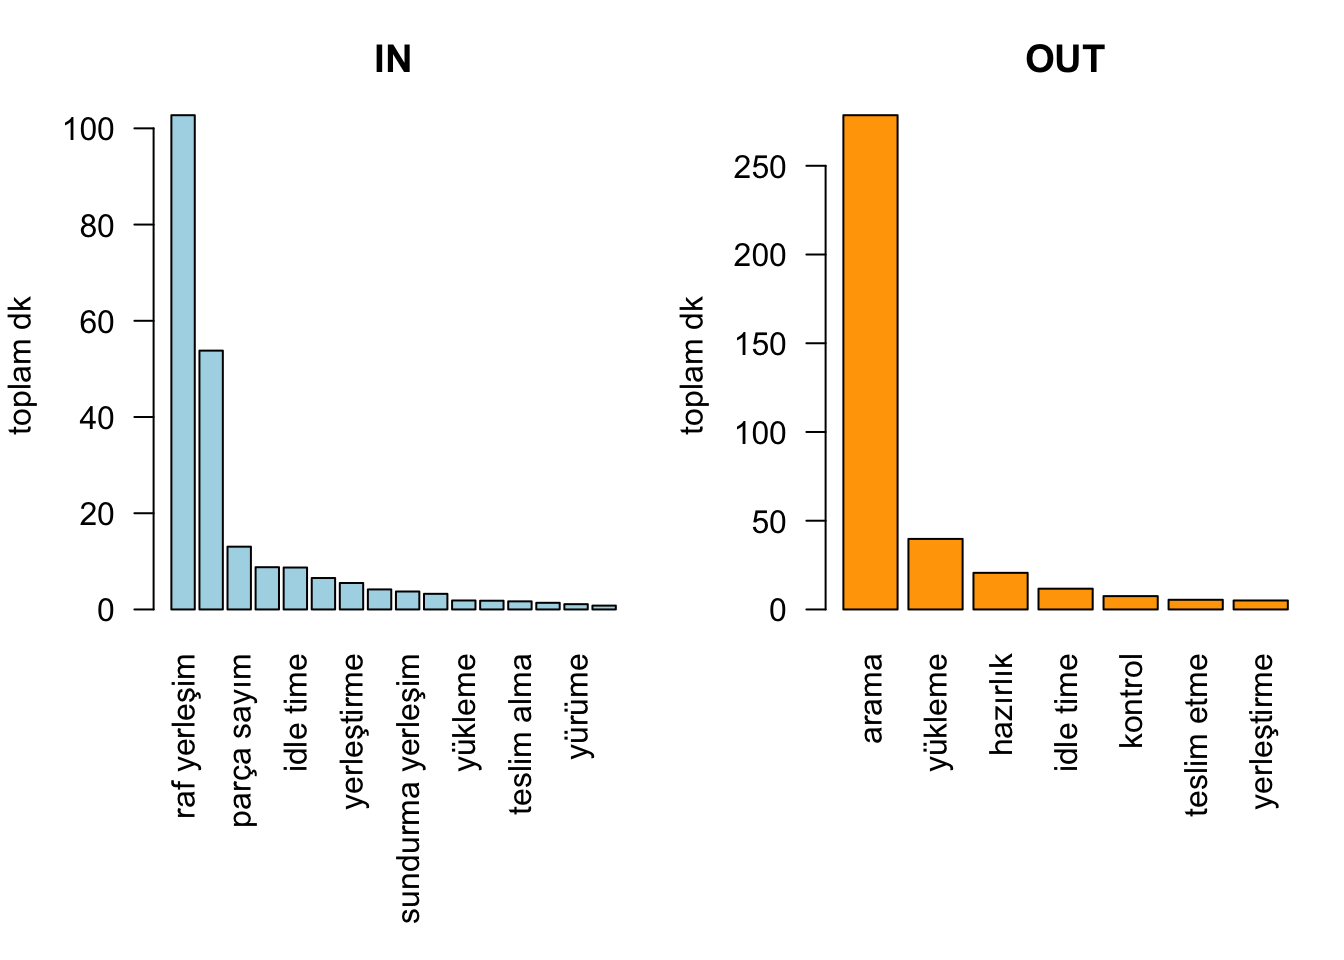
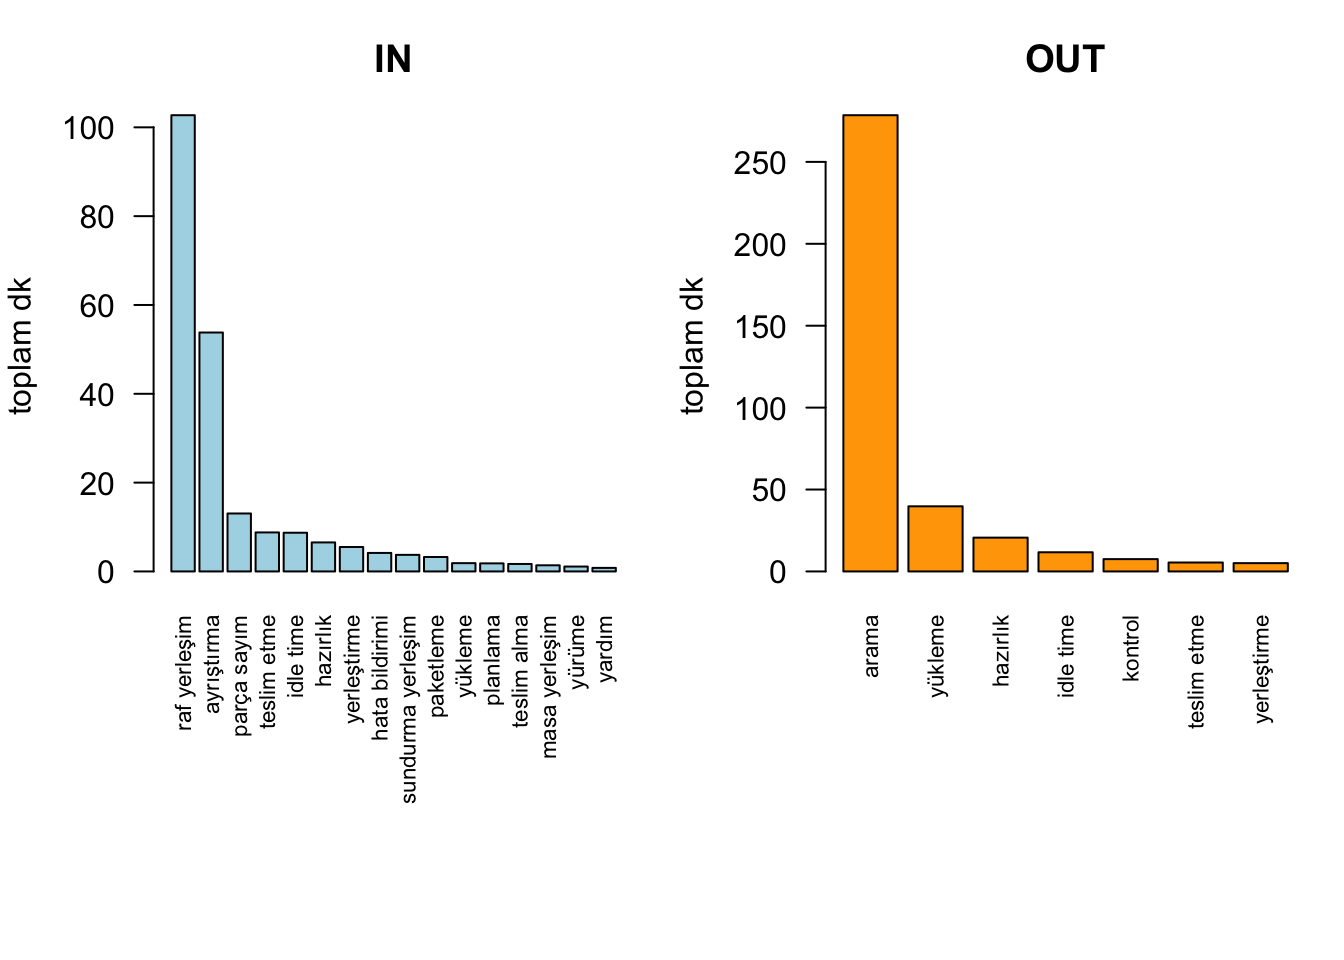
stajproje5

diff --git a/docs/staj.html b/docs/staj.html
@@ -966,13 +966,15 @@ F-statistic: 31.23 on 1 and 115 DF,  p-value: 1.563e-07</code></pre>
 <div class="cell">
 <details class="code-fold">
 <summary>Kodu göster</summary>
-<div class="code-copy-outer-scaffold"><div class="sourceCode cell-code" id="cb16"><pre class="sourceCode r code-with-copy"><code class="sourceCode r"><span id="cb16-1"><a href="#cb16-1" aria-hidden="true" tabindex="-1"></a><span class="fu">par</span>(<span class="at">mfrow =</span> <span class="fu">c</span>(<span class="dv">1</span>, <span class="dv">2</span>), <span class="at">mar =</span> <span class="fu">c</span>(<span class="dv">9</span>, <span class="dv">4</span>, <span class="dv">3</span>, <span class="dv">1</span>))</span>
+<div class="code-copy-outer-scaffold"><div class="sourceCode cell-code" id="cb16"><pre class="sourceCode r code-with-copy"><code class="sourceCode r"><span id="cb16-1"><a href="#cb16-1" aria-hidden="true" tabindex="-1"></a><span class="fu">par</span>(<span class="at">mfrow =</span> <span class="fu">c</span>(<span class="dv">1</span>, <span class="dv">2</span>), <span class="at">mar =</span> <span class="fu">c</span>(<span class="dv">10</span>, <span class="dv">4</span>, <span class="dv">3</span>, <span class="dv">1</span>))</span>
 <span id="cb16-2"><a href="#cb16-2" aria-hidden="true" tabindex="-1"></a>in_t  <span class="ot">&lt;-</span> <span class="fu">sort</span>(<span class="fu">tapply</span>(df<span class="sc">$</span>sure[df<span class="sc">$</span>yon <span class="sc">==</span> <span class="st">"IN"</span>],  df<span class="sc">$</span>aktivite[df<span class="sc">$</span>yon <span class="sc">==</span> <span class="st">"IN"</span>],  sum),</span>
 <span id="cb16-3"><a href="#cb16-3" aria-hidden="true" tabindex="-1"></a>              <span class="at">decreasing =</span> <span class="cn">TRUE</span>)</span>
 <span id="cb16-4"><a href="#cb16-4" aria-hidden="true" tabindex="-1"></a>out_t <span class="ot">&lt;-</span> <span class="fu">sort</span>(<span class="fu">tapply</span>(df<span class="sc">$</span>sure[df<span class="sc">$</span>yon <span class="sc">==</span> <span class="st">"OUT"</span>], df<span class="sc">$</span>aktivite[df<span class="sc">$</span>yon <span class="sc">==</span> <span class="st">"OUT"</span>], sum),</span>
 <span id="cb16-5"><a href="#cb16-5" aria-hidden="true" tabindex="-1"></a>              <span class="at">decreasing =</span> <span class="cn">TRUE</span>)</span>
-<span id="cb16-6"><a href="#cb16-6" aria-hidden="true" tabindex="-1"></a><span class="fu">barplot</span>(in_t <span class="sc">/</span> <span class="dv">60</span>,  <span class="at">las =</span> <span class="dv">2</span>, <span class="at">col =</span> <span class="st">"lightblue"</span>, <span class="at">main =</span> <span class="st">"IN"</span>,  <span class="at">ylab =</span> <span class="st">"toplam dk"</span>)</span>
-<span id="cb16-7"><a href="#cb16-7" aria-hidden="true" tabindex="-1"></a><span class="fu">barplot</span>(out_t <span class="sc">/</span> <span class="dv">60</span>, <span class="at">las =</span> <span class="dv">2</span>, <span class="at">col =</span> <span class="st">"orange"</span>,    <span class="at">main =</span> <span class="st">"OUT"</span>, <span class="at">ylab =</span> <span class="st">"toplam dk"</span>)</span></code></pre></div><button title="Copy to Clipboard" class="code-copy-button"><i class="bi"></i></button></div>
+<span id="cb16-6"><a href="#cb16-6" aria-hidden="true" tabindex="-1"></a><span class="fu">barplot</span>(in_t <span class="sc">/</span> <span class="dv">60</span>,  <span class="at">las =</span> <span class="dv">2</span>, <span class="at">col =</span> <span class="st">"lightblue"</span>, <span class="at">main =</span> <span class="st">"IN"</span>,  <span class="at">ylab =</span> <span class="st">"toplam dk"</span>,</span>
+<span id="cb16-7"><a href="#cb16-7" aria-hidden="true" tabindex="-1"></a>        <span class="at">cex.names =</span> <span class="fl">0.7</span>)</span>
+<span id="cb16-8"><a href="#cb16-8" aria-hidden="true" tabindex="-1"></a><span class="fu">barplot</span>(out_t <span class="sc">/</span> <span class="dv">60</span>, <span class="at">las =</span> <span class="dv">2</span>, <span class="at">col =</span> <span class="st">"orange"</span>,    <span class="at">main =</span> <span class="st">"OUT"</span>, <span class="at">ylab =</span> <span class="st">"toplam dk"</span>,</span>
+<span id="cb16-9"><a href="#cb16-9" aria-hidden="true" tabindex="-1"></a>        <span class="at">cex.names =</span> <span class="fl">0.7</span>)</span></code></pre></div><button title="Copy to Clipboard" class="code-copy-button"><i class="bi"></i></button></div>
 </details>
 <div class="cell-output-display">
 <div class="quarto-figure quarto-figure-center">
